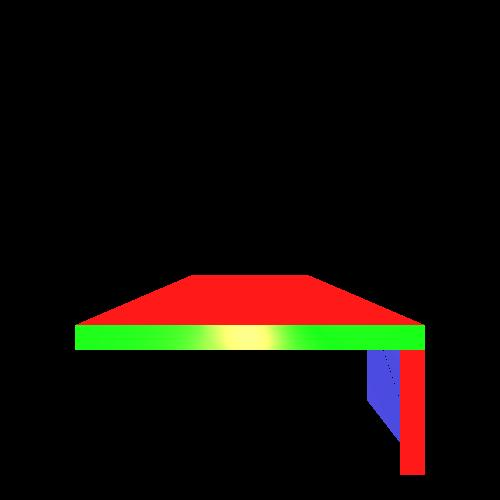
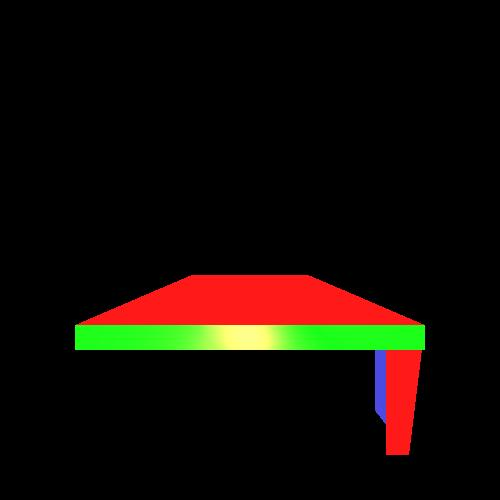
makeing new test for table

Changed region(s): [[0.72, 0.69, 0.87, 0.96]]

diff --git a/src/testing/tests/quadrantTest.java b/src/testing/tests/quadrantTest.java
@@ -23,10 +23,36 @@ public class quadrantTest {
 
     private final String IMAGES_TEST_DIR = "/src/testing/images/";
 
+    @Test
+    public void FinalbiuldTableTest(){
+        Point3D Point3D topRightNear= new Point3D(  500,  3500, -1000);
+        Point3D Point3D topLeftNear= new Point3D( 500, -3500, -1000);
+        Point3D Point3D topLeftFar= new Point3D(  500, -3500, -3000);
+        Point3D Point3D topRightFar =new Point3D( 500,  3500, -3000);
+        Point3D Point3D bottomRightNear= new Point3D(  0,  3500, -1000);
+        Point3D Point3D bottomLeftFar= new Point3D( 0, -3500, -1000);
+        Point3D Point3D bottomRightNear= new Point3D(  0, -3500, -3000);
+        Point3D Point3D bottomLeftNear =new Point3D( 0,  3500, -3000);
+
+
+
+
+
+
+        
+
+    }
 
     @Test
     public void biuldTableTest(){
-
+/*     topRightNearp5
+                topLeftNearp6
+        topLeftFarp7
+                topRightFarp8
+        bottomRightNearp1
+                bottomLeftFarp2
+        bottomRightNearp3
+                bottomLeftNearp4 */
         Point3D p1= new Point3D(  0,  3500, -1000);
         Point3D p2= new Point3D( 0, -3500, -1000);
         Point3D p3= new Point3D(  0, -3500, -3000);
@@ -36,15 +62,16 @@ public class quadrantTest {
         Point3D p7= new Point3D(  500, -3500, -3000);
         Point3D p8 =new Point3D( 500,  3500, -3000);
 
-        Point3D p55= new Point3D(  -2500,  3500, -1000);
-        Point3D p55right= new Point3D(  -2500,  3500, -1500);
-        Point3D p55left= new Point3D(  -2500,  3000, -1000);
-        Point3D p55upr= new Point3D(  500,  3500, -1500);
-        Point3D p55upl= new Point3D(  500,  3000, -1000);
+        Point3D p55= new Point3D(  -2500,  3500, -1100);
+        Point3D p55right= new Point3D(  -2500,  3500, -1400);
+        Point3D p55left= new Point3D(  -2500,  3000, -1100);
+        Point3D p55upr= new Point3D(  500,  3500, -1400);
+        Point3D p55upl= new Point3D(  500,  3000, -1100);
         //bettween p5 and p55upr and p55upl we have an unclosed triangle
+
         quadrilateral2 p5frontRightFacing= new quadrilateral2(p55left,p55,p5,p55upl);//this one is facing us
         quadrilateral2 p5frontRightside = new quadrilateral2(p55,p5,p55upr,p55right);
-        /*quadrilateral2 p5legRight = new quadrilateral2(p55left,p55upl,p5,p55);
+/*        quadrilateral2 p5legRight = new quadrilateral2(p55left,p55upl,p5,p55);
         quadrilateral2 p5legLeft = new quadrilateral2(p55,p5,p55upr,p55right);*/
 
         Point3D p66= new Point3D( -2500, -3500, -1000);
@@ -64,20 +91,20 @@ public class quadrantTest {
         rightSide.setEmmission(new Color (50, 80, 40));
         leftSide.setEmmission(new Color (50, 80, 40));
         frontSide.setEmmission(new Color (50, 80, 40));
+
         p5frontRightFacing.setEmmission(new Color (250, 0, 0));
         p5frontRightside.setEmmission(new Color (50, 50, 200));
-
         //quadrilateral2 leg1forNowsomething = new quadrilateral2(p10,p30,p20,p40);
 
 
-       // AshCylinderLim(double myRadius, Point3D tp, Ray myRay, Color e, Material m)
-        /*double myRadius  = 20;
+     //AshCylinderLim(double myRadius, Point3D tp, Ray myRay, Color e, Material m)
+/*        double myRadius  = 20;
         Point3D tp1,tp = p5;
         tp1 = p5;
         tp1.setX(new Coordinate(-1000));
         Ray myRay = new Ray(tp1,new Vector(1,0,0));
-        Color e = Color.cyan;
-        Material m = new Material(0.7,0.8,1,2,8);
+        Color e = new Color (0, 250, 0);
+        Material m = new Material();//0.7,0.8,1,2,8);
         AshCylinderLim myLeg1 = new AshCylinderLim(myRadius,tp,myRay,e,m);*/
 
 
@@ -89,6 +116,7 @@ public class quadrantTest {
         scene.addGeometry(leftSide);
         scene.addGeometry(backSide);
         scene.addGeometry(frontSide);
+       // scene.addGeometry(myLeg1);
 
         //now to add the legs
         scene.addGeometry(p5frontRightFacing);

diff --git a/src/testing/tests/BoxTest.java b/src/testing/tests/BoxTest.java
@@ -95,4 +95,4 @@ class BoxTest {
     }
 }
 
-}
+
